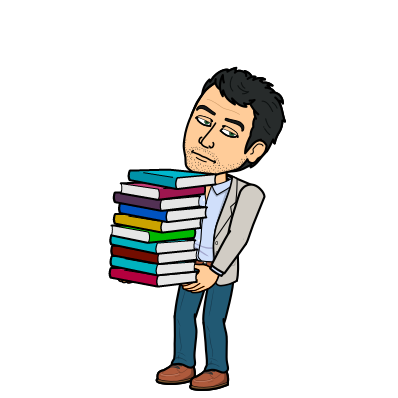
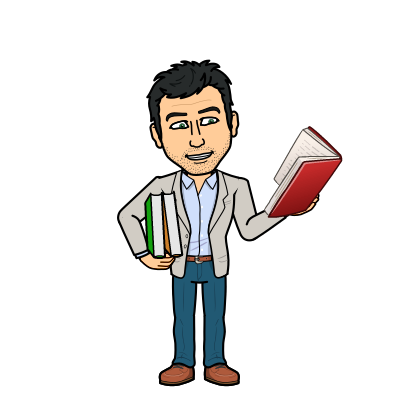
Created layout framework for Education, Coding, Projects, and Contact components

Changed region(s): [[0.2714, 0.1508, 0.8744, 0.995]]

diff --git a/front-end/src/components/Contact/Contact.js b/front-end/src/components/Contact/Contact.js
@@ -1,11 +1,48 @@
-import React, { Component } from 'react'
+import React, { Component } from 'react';
+import brindleContact from '../../images/brindle-contact.png';
+
 
 export default class Contact extends Component {
     render() {
         return (
-            <div>
-                Contact
+            <div style={styles.main}>
+                <div style={styles.center}>
+                    <h1 style={styles.title}>Contact</h1>
+                </div>
+
+                <div style={styles.imgArea}>
+                    <img src={brindleContact} style={styles.rightImg} alt="Bitmoji of Brindle holding a tin can and string to his ear" />
+                </div>
             </div>
         )
+    }
+}
+
+const styles = {
+    main: {
+        display: 'grid',
+        height: '100vh',
+        width: '85vw',
+        gridTemplateColumns: '10% 60% 30%',
+        gridTemplateRows: '10% 85% 5%'
+    },
+    center: {
+        display: 'flex',
+        flexDirection: 'column',
+        gridArea: '2 / 2 / span 1 / span 1',
+        alignItems: 'center'
+    },
+    title: {
+        fontSize: '3em'
+    },
+    imgArea: {
+        display: 'flex',
+        gridArea: '1 / 3 / span 3 / span 1',
+        alignItems: 'center',
+        justifyContent: 'flex-end'
+    },
+    rightImg: {
+        width: '75%',
+        height: '40%'
     }
 }

diff --git a/front-end/src/components/Projects/Projects.js b/front-end/src/components/Projects/Projects.js
@@ -1,11 +1,47 @@
-import React, { Component } from 'react'
+import React, { Component } from 'react';
+import brindleProjects from '../../images/brindle-projects.png';
+
 
 export default class Projects extends Component {
     render() {
         return (
-            <div>
-                Projects
+            <div style={styles.main}>
+                <div style={styles.center}>
+                    <h1 style={styles.title}>Projects</h1>
+                </div>
+
+                <div style={styles.imgArea}>
+                    <img src={brindleProjects} style={styles.rightImg} alt="Bitmoji of Brindle at a desk, developing projects" />
+                </div>
             </div>
         )
+    }
+}
+
+const styles = {
+    main: {
+        display: 'grid',
+        height: '100vh',
+        width: '85vw',
+        gridTemplateColumns: '10% 60% 30%',
+        gridTemplateRows: '10% 85% 5%'
+    },
+    center: {
+        display: 'flex',
+        flexDirection: 'column',
+        gridArea: '2 / 2 / span 1 / span 1',
+        alignItems: 'center'
+    },
+    title: {
+        fontSize: '3em'
+    },
+    imgArea: {
+        display: 'flex',
+        gridArea: '1 / 3 / span 3 / span 1',
+        alignItems: 'center',
+        justifyContent: 'flex-end'
+    },
+    rightImg: {
+        width: '85%'
     }
 }

diff --git a/front-end/src/components/Coding/Coding.js b/front-end/src/components/Coding/Coding.js
@@ -1,11 +1,49 @@
 import React, { Component } from 'react'
+import brindleCoding from '../../images/brindle-coding.png';
+
 
 export default class Coding extends Component {
     render() {
         return (
-            <div>
-                Coding
+            <div style={styles.main}>
+                <div style={styles.center}>
+                    <h1 style={styles.title}>Coding Stack</h1>
+                </div>
+
+                <div style={styles.imgArea}>
+                    <img src={brindleCoding} style={styles.rightImg} alt="Bitmoji of Brindle at coding at a laptop" />
+                </div>
             </div>
         )
+    }
+}
+
+const styles = {
+    main: {
+        display: 'grid',
+        height: '100vh',
+        width: '85vw',
+        gridTemplateColumns: '10% 60% 30%',
+        gridTemplateRows: '10% 85% 5%'
+    },
+    center: {
+        display: 'flex',
+        flexDirection: 'column',
+        gridArea: '2 / 2 / span 1 / span 1',
+        alignItems: 'center'
+    },
+    title: {
+        fontSize: '3em'
+    },
+    imgArea: {
+        display: 'flex',
+        gridArea: '1 / 3 / span 3 / span 1',
+        alignItems: 'center',
+        justifyContent: 'flex-end'
+    },
+    rightImg: {
+        width: '75%',
+        height: '40%',
+        margin: '0 3% 0 0'
     }
 }

diff --git a/front-end/src/components/Education/Education.js b/front-end/src/components/Education/Education.js
@@ -1,11 +1,47 @@
 import React, { Component } from 'react'
+import brindleSchool from '../../images/brindle-school.png';
+
 
 export default class Education extends Component {
     render() {
         return (
-            <div>
-                Education
+            <div style={styles.main}>
+                <div style={styles.center}>
+                    <h1 style={styles.title}>Education</h1>
+                </div>
+
+                <div style={styles.imgArea}>
+                    <img src={brindleSchool} style={styles.rightImg} alt="Bitmoji of Brindle at school" />
+                </div>
             </div>
         )
+    }
+}
+
+const styles = {
+    main: {
+        display: 'grid',
+        height: '100vh',
+        width: '85vw',
+        gridTemplateColumns: '10% 60% 30%',
+        gridTemplateRows: '10% 85% 5%'
+    },
+    center: {
+        display: 'flex',
+        flexDirection: 'column',
+        gridArea: '2 / 2 / span 1 / span 1',
+        alignItems: 'center'
+    },
+    title: {
+        fontSize: '3em'
+    },
+    imgArea: {
+        display: 'flex',
+        gridArea: '1 / 3 / span 3 / span 1',
+        alignItems: 'center',
+        justifyContent: 'flex-end'
+    },
+    rightImg: {
+        width: '85%'
     }
 }
